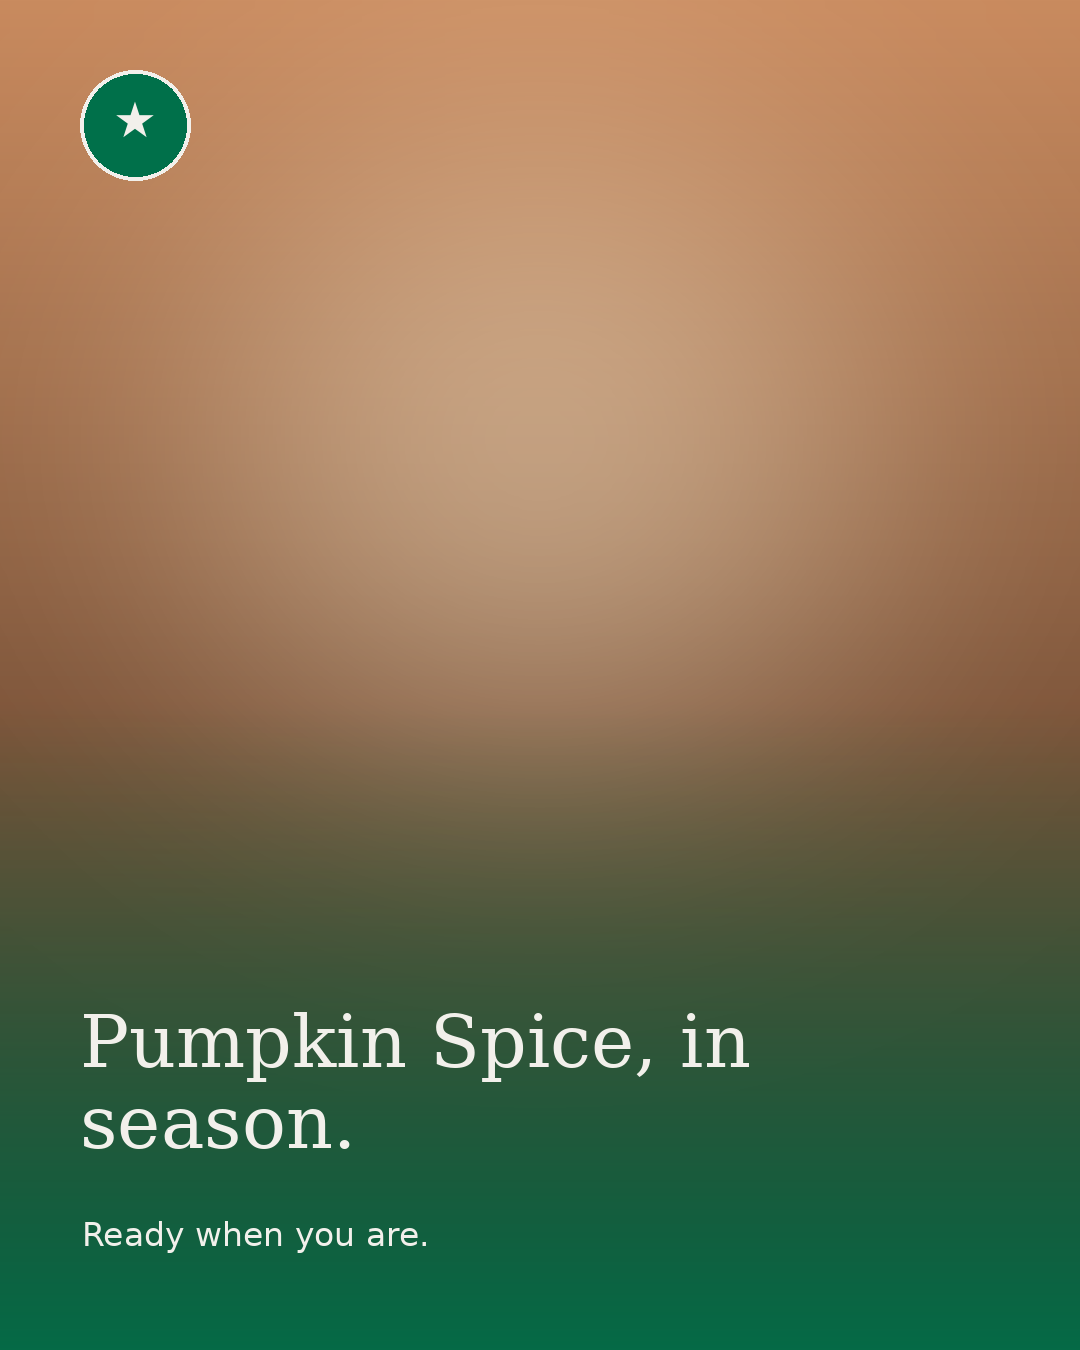
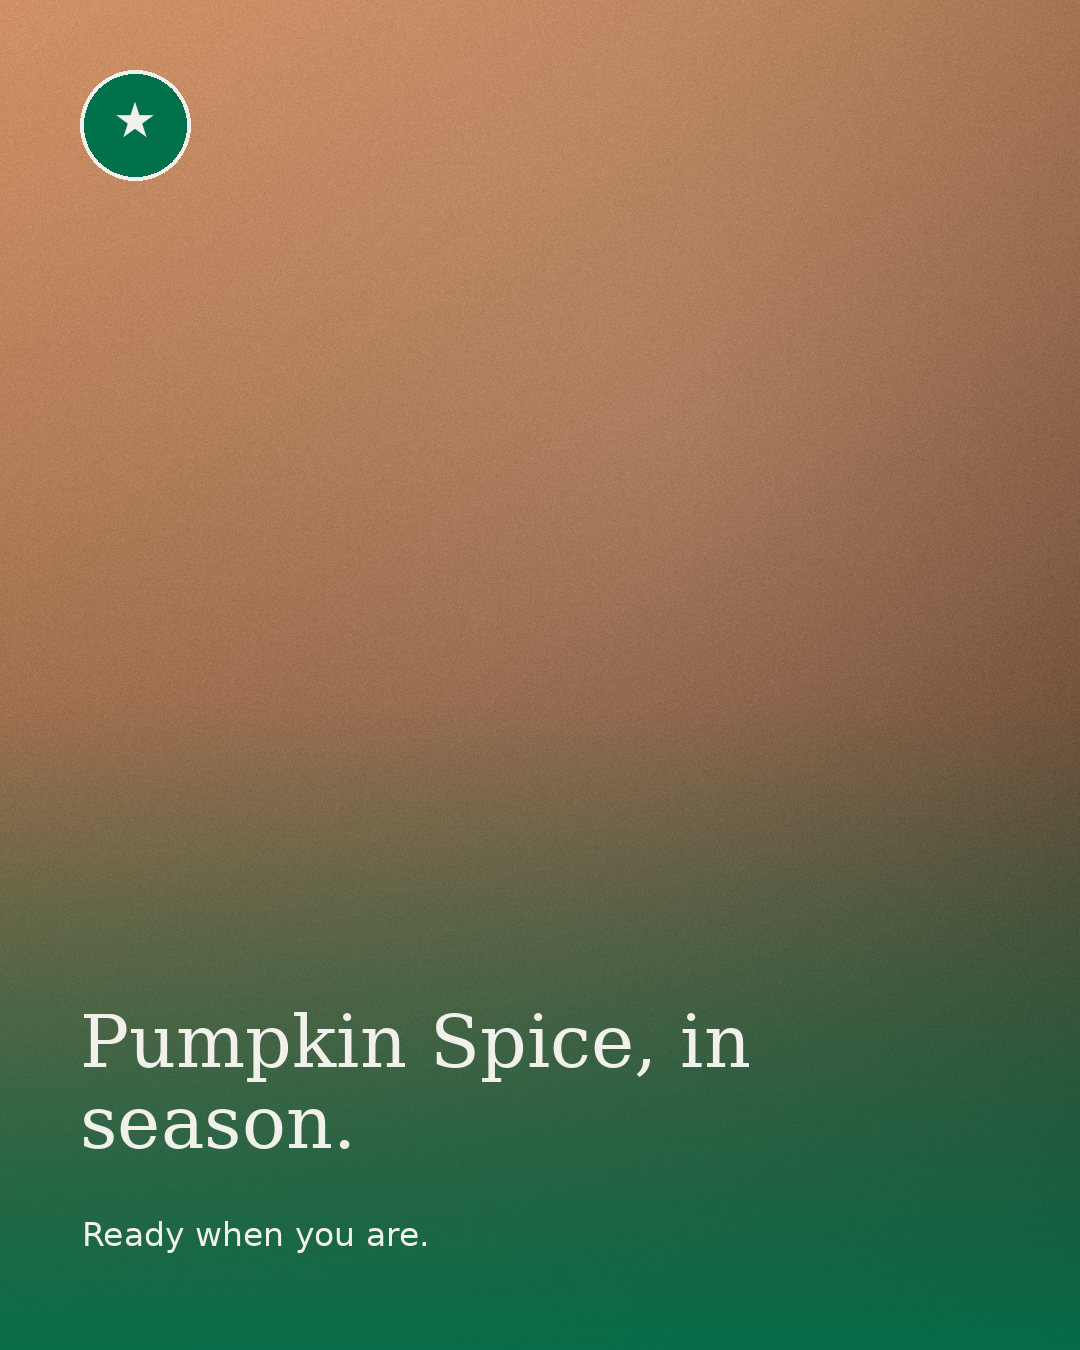
Improve procedural fallback to a clean minimal-abstract gradient
The offline image fallback rendered a blurry radial blob. Replace it with a
deterministic, vectorized minimal-abstract plate that matches the new prompt
baseline: a gentle diagonal two-tone blend of the product palette, a subtle
off-center glow for depth, and fine grain. Faster (numpy, no per-pixel loop)
and reads as an intentional background even with no API key.

Regenerate sbux_psl_ad.png with the new fallback.

Claude-Session: https://claude.ai/code/session_01MJXrfn2uNURtkTZawAEDTi

Changed region(s): [[0.275, 0.0, 1.0, 0.4978], [0.0, 0.28, 0.275, 0.7778]]

diff --git a/image_agent.py b/image_agent.py
@@ -22,6 +22,7 @@ on-brand regardless of provider (see Starbucks-Brand-Package.md imagery block).
 """
 
 import os, io, math
+import numpy as np
 
 try:
     from PIL import Image, ImageDraw, ImageFilter
@@ -133,21 +134,25 @@ class ReplicateFluxProvider(ImageProvider):
 
 
 class ProceduralProvider(ImageProvider):
-    """Offline fallback — warm gradient hero in the product palette (no API)."""
+    """Offline fallback — a clean minimal-abstract gradient in the product palette (no API).
+
+    A gentle diagonal two-tone blend between the palette's accent and base, a
+    subtle off-center glow for depth, and fine grain. No scene, no objects — a
+    deterministic stand-in for the abstract background plate the prompts describe.
+    """
     name = "procedural(fallback)"
     def generate(self, prompt, negative, width, height, seed=None, palette=None):
-        top, bot = palette or ((0xC9, 0x8A, 0x5E), (0x3A, 0x24, 0x18))
-        img = Image.new("RGB", (width, height), top)
-        px = img.load()
-        for y in range(height):
-            t = y / height
-            row = (int(top[0]*(1-t)+bot[0]*t), int(top[1]*(1-t)+bot[1]*t), int(top[2]*(1-t)+bot[2]*t))
-            for x in range(width):
-                px[x, y] = row
-        hi = Image.new("L", (width, height), 0)
-        ImageDraw.Draw(hi).ellipse([width*0.18, height*0.10, width*0.82, height*0.55], fill=120)
-        hi = hi.filter(ImageFilter.GaussianBlur(160))
-        return Image.composite(Image.new("RGB", (width, height), (255, 240, 210)), img, hi)
+        c0, c1 = palette or ((0xC9, 0x8A, 0x5E), (0x3A, 0x24, 0x18))
+        c0, c1 = np.array(c0, float), np.array(c1, float)
+        yy = np.linspace(0, 1, height)[:, None, None]
+        xx = np.linspace(0, 1, width)[None, :, None]
+        t = 0.65 * yy + 0.35 * xx                              # gentle diagonal two-tone blend
+        base = c0 * (1 - t) + c1 * t
+        r = np.sqrt((yy - 0.32) ** 2 + (xx - 0.62) ** 2)
+        base += np.clip(1 - r / 0.9, 0, 1) * (0.12 * 255)      # subtle off-center glow for depth
+        grain = np.random.default_rng(seed or 0).normal(0, 4, (height, width, 1))
+        base = np.clip(base + grain, 0, 255).astype("uint8")
+        return Image.fromarray(base, "RGB")
 
 
 # ============================================================================